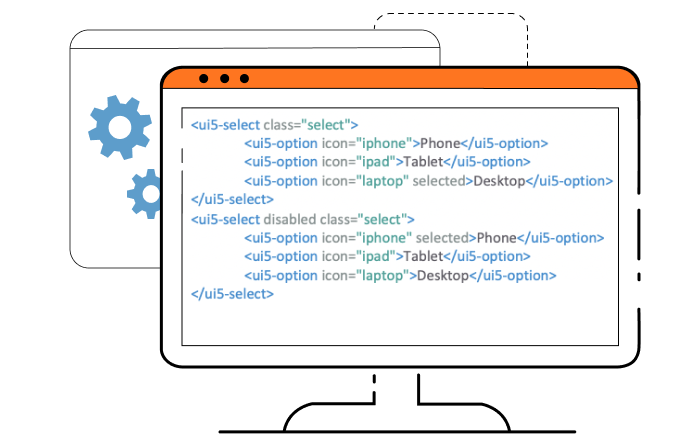
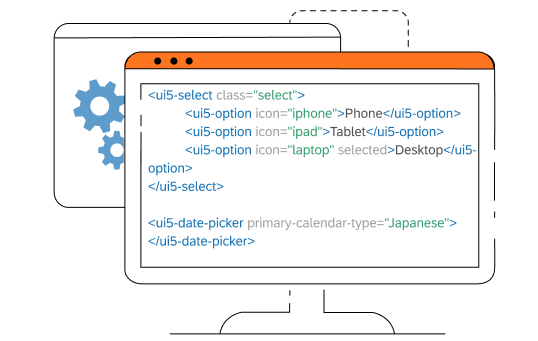
chore: update landing page to latest spec (#4381)

diff --git a/packages/playground/assets/css/landing-page.css b/packages/playground/assets/css/landing-page.css
@@ -134,6 +134,7 @@ a.github-link > img {
 .title {
     display: flex;
     font-size: 4.5rem;
+    font-family: "72-Bold";
 }
 
 .title > h1 {
@@ -167,6 +168,8 @@ a.github-link > img {
 .get-started-button {
     padding: 1.25rem 1.5625rem;
     border-radius: 10px;
+    font-size: 1.5rem;
+    margin-left: -2px;
     color: #fff;
     background: var(--orange_color);
     text-decoration: none;
@@ -194,8 +197,13 @@ a.github-link > img {
 }
 
 .illustration-section > img {
-    width: 33rem;
-    height: 21rem;
+    width: 31rem;
+    height: 20rem;
+}
+
+.illustration-section:nth-child(3) > img {
+    width: 28rem;
+    height: 22rem;
 }
 
 .text-wrapper {
@@ -215,10 +223,13 @@ a.github-link > img {
 .testimonials h2,
 footer h2 {
     font-size: 2.25rem;
+    font-family: '72-Bold';
 }
 
 .text-wrapper > span {
+    font-family: "72-Light";
     font-size: 1.5rem;
+    line-height: 1.5rem;
 }
 
 .example {
@@ -235,13 +246,8 @@ footer h2 {
     display: flex;
 }
 
-.example-field:nth-child(1) {
-    margin-right: 10rem;
-}
-
 .example-field {
-    width: 23.5rem;
-    padding: 1rem 0;
+    padding: 1rem;
     margin-top: 4rem;
     display: flex;
     align-items: center;
@@ -249,6 +255,10 @@ footer h2 {
     background: #fff;
     border: 1px solid #DFDFDF;
     border-radius: .5rem;
+}
+
+.example-field > ui5-date-picker{
+    margin-right: 2rem;
 }
 
 .codesandbox-link {
@@ -310,23 +320,23 @@ footer h2 {
     flex-direction: column;
 }
 
+.compatibility > div > div {
+    display: flex;
+    justify-content: space-between;
+}
+
 .compatibility > div:nth-child(1) {
     margin-right: 14rem;
 }
 
 .compatibility h2 {
     margin-bottom: 1rem;
+    letter-spacing: 4px;
     text-align: center;
 }
 
 .compatibility img {
     height: 3.125rem;
-}
-
-.compatibility img:nth-child(1),
-.compatibility img:nth-child(2),
-.compatibility img:nth-child(3) {
-    margin-right: 4rem;
 }
 
 .testimonials {
@@ -371,11 +381,6 @@ footer h2 {
     letter-spacing: .5px;
     opacity: 1;
     transition: all 1s ease-in-out;
-}
-
-.testimonial img {
-    height: 5rem;
-    margin-right: 1rem
 }
 
 .testimonial > div:nth-child(1) {
@@ -508,7 +513,7 @@ footer a {
     }
 
     .example {
-        margin-top: 8rem;
+        margin-top: 10rem;
     }
 
     .frameworks-section {
@@ -543,7 +548,7 @@ footer a {
     }
 
     .example {
-        margin-top: 16rem;
+        margin-top: 13rem;
     }
 
     .frameworks-section {
@@ -560,6 +565,10 @@ footer a {
 }
 
 @media(max-width: 1560px) {
+    .example {
+        margin-top: 10rem;
+    }
+
     footer {
         margin-top: 9rem;
     }
@@ -567,13 +576,17 @@ footer a {
 
 @media(max-width: 1540px) {
     .example {
-        margin-top: 12rem;
+        margin-top: 8rem;
     }
 }
 
-@media(max-width: 1500px) {
+@media(max-width: 1510px) {
+    .illustration-section:nth-child(3) {
+        margin-top: 3rem;
+    }
+
     .example {
-        margin-top: 8rem;
+        margin-top: 5rem;
     }
 }
 
@@ -600,8 +613,17 @@ footer a {
         margin-top: 9rem;
     }
 
+    .illustration-section:nth-child(3) > img {
+        width: 22rem;
+        height: 19rem;
+    }
+
     .example {
-        margin-top: 9rem;
+        margin-top: 7rem;
+    }
+
+    .example-field {
+        padding: 0 1rem;
     }
 
     .illustration-section > img {
@@ -619,12 +641,6 @@ footer a {
 
     footer {
         margin-top: 12rem;
-    }
-}
-
-@media(max-width: 1450px) {
-    .example-field {
-        padding: 0;
     }
 }
 
@@ -655,7 +671,7 @@ footer a {
     }
 
     .example {
-        margin-top: 12rem;
+        margin-top: 10rem;
     }
 
     .testimonials {
@@ -709,6 +725,10 @@ footer a {
         font-size: 1.2rem;
     }
 
+    .example {
+        margin-top: 5rem;
+    }
+
     .testimonials {
         margin-top: 8rem;
     }
@@ -732,7 +752,12 @@ footer a {
     }
 
     .illustration-section:nth-child(1) {
-        margin-top: 9rem;
+        margin-top: 8rem;
+    }
+
+    .illustration-section:nth-child(3) > img {
+        width: 18rem;
+        height: 16rem;
     }
 
     .example {
@@ -849,7 +874,7 @@ footer a {
     }
 
     .example {
-        margin-top: 9rem;
+        margin-top: 7rem;
     }
 
     .illustration-section:nth-child(2) {
@@ -890,7 +915,7 @@ footer a {
     }
 
     footer {
-        margin-top: 15rem;
+        margin-top: 18rem;
     }
 
     .footer-content {
@@ -930,18 +955,19 @@ footer a {
         flex-direction: column;
     }
 
-    .example-field:nth-child(1) {
-        margin-right: 0;
-    }
-
     .compatibility > div:nth-child(1) {
         margin-right: 0;
         margin-bottom: 2rem;
     }
 
+    .compatibility > div {
+        align-items: center;
+    }
+
     .compatibility > div > div {
+        width: 400px;
         display: flex;
-        justify-content: center;
+        justify-content: space-around;
     }
 }
 

diff --git a/packages/playground/docs/landing-page.html b/packages/playground/docs/landing-page.html
@@ -109,11 +109,8 @@ nav_exclude: true
             <div>
                 <div class="example-field">
                     <ui5-date-picker></ui5-date-picker>
-                </div>
-                <div class="example-field">
                     <pre><code class="language-html">&lt;ui5-date-picker>&lt;/ui5-date-picker></code></pre>
                 </div>
-
             </div>
             <a class="codesandbox-link" href="https://codesandbox.io/s/71r1x5o51q?fontsize=14&module=%2Findex.html" target="_blank">CodeSandBox</a>
         </section>
@@ -172,30 +169,28 @@ nav_exclude: true
                     <div class="testimonial visible">
                         <div>"I absolutely loved working with the UI5 web components since they are very easy to plug into any application. It made our MDK Web runtime development much easier and more productive so that we were able to smoothly deliver our first Web channel in a short time."</div>
                         <div>
-                            <img src="{{ "/assets/images/mdk.svg" | absolute_url }}" alt="MDK Logo">
-                            <span>SAP Mobile Development Kit</span>
+                            <img src="{{ "/assets/images/mdk.png" | absolute_url }}" alt="MDK Logo">
                         </div>
                     </div>
 
                     <div class="testimonial">
                         <div>"The UI5 Web Components are well documented and easy to re-use, making for quick and consistent development. The team provided exceptional service."</div>
                         <div>
-                            <img src="{{ "/assets/images/successfactor-logo.png" | absolute_url }}" alt="SuccessFactors Logo">
-                            <span>SAP SuccessFactors</span>
+                            <img src="{{ "/assets/images/sf.png" | absolute_url }}" alt="SuccessFactors Logo">
                         </div>
                     </div>
 
                     <div class="testimonial">
                         <div>"UI5 Web Components keep our focus on delivering product features instead of re-implementing UI primitives while staying consistent with Fiori design system and giving us an opportunity to use React as our base framework. Great job!"</div>
                         <div>
-                            <img src="{{ "/assets/images/graph-logo.svg" | absolute_url }}" alt="SAP Graph Logo">
+                            <img src="{{ "/assets/images/graph.png" | absolute_url }}" alt="SAP Graph Logo">
                         </div>
                     </div>
 
                     <div class="testimonial">
                         <div>"UI5 Web Components are a great set of UI elements that allow you to use the framework you like to easily build SAP Fiori compliant apps and deliver the best user experience for your customers."</div>
                         <div>
-                            <span>Repository-Based Shipment Channel</span>
+                            <img src="{{ "/assets/images/rbsc.png" | absolute_url }}" alt="SAP RBSC Logo">                            
                         </div>
                     </div>
                 </div>
